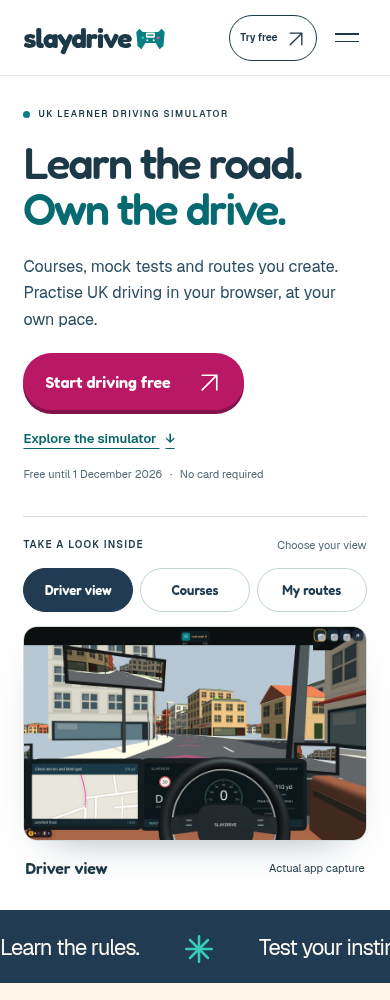
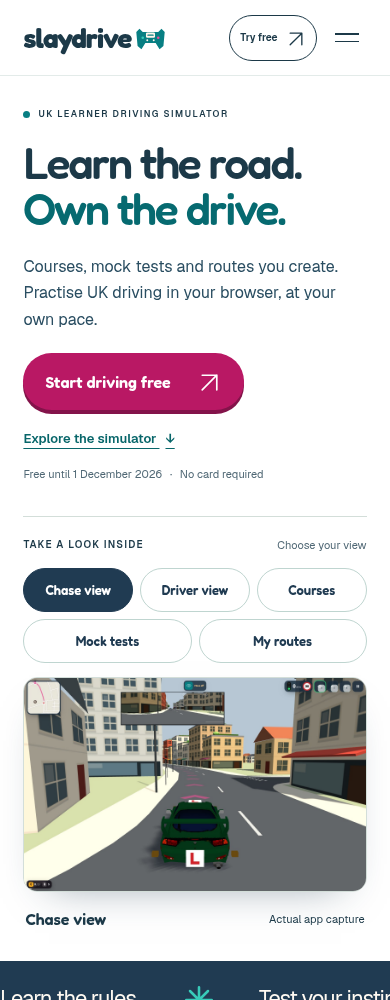
Lead with chase view and consolidate screenshot previews

Changed region(s): [[0.0, 0.589, 1.0, 1.0]]

diff --git a/index.html b/index.html
@@ -84,11 +84,13 @@
         </div>
         <div class="desktop-hero" tabindex="0" role="region" aria-roledescription="carousel" aria-label="Desktop app previews. Use the buttons or arrow keys to browse.">
           <div class="hero-preview-heading"><span class="eyebrow">TAKE A LOOK INSIDE</span><span class="hero-preview-hint">Choose your view</span></div>
-          <div class="desktop-hero-controls" role="group" aria-label="Choose a desktop screenshot"><button type="button" data-hero-pick="cockpit" aria-pressed="true">Driver view</button><button type="button" data-hero-pick="courses" aria-pressed="false">Courses</button><button type="button" data-hero-pick="my-routes" aria-pressed="false">My routes</button></div>
-          <figure data-hero-screen="cockpit"><a href="/media/current/cockpit.jpg" target="_blank" rel="noopener" aria-label="Open full-size driver view screenshot in a new tab"><img src="/media/current/cockpit.jpg" width="1600" height="1000" fetchpriority="high" decoding="async" alt="Driver’s-eye cockpit with mirrors and route navigation" /></a><figcaption>Driver view <span>Actual app capture</span></figcaption></figure>
+          <div class="desktop-hero-controls" role="group" aria-label="Choose a desktop screenshot"><button type="button" data-hero-pick="chase" aria-pressed="true">Chase view</button><button type="button" data-hero-pick="cockpit" aria-pressed="false">Driver view</button><button type="button" data-hero-pick="courses" aria-pressed="false">Courses</button><button type="button" data-hero-pick="mock-tests" aria-pressed="false">Mock tests</button><button type="button" data-hero-pick="my-routes" aria-pressed="false">My routes</button></div>
+          <figure data-hero-screen="chase"><a href="/media/current/chase.jpg" target="_blank" rel="noopener" aria-label="Open full-size chase view screenshot in a new tab"><img src="/media/current/chase.jpg" width="1600" height="1000" fetchpriority="high" decoding="async" alt="Third-person driving view showing the learner car on a Cambridge practice road" /></a><figcaption>Chase view <span>Actual app capture</span></figcaption></figure>
+          <figure data-hero-screen="cockpit" hidden><a href="/media/current/cockpit.jpg" target="_blank" rel="noopener" aria-label="Open full-size driver view screenshot in a new tab"><img src="/media/current/cockpit.jpg" width="1600" height="1000" loading="lazy" decoding="async" alt="Driver’s-eye cockpit with mirrors and route navigation" /></a><figcaption>Driver view <span>Actual app capture</span></figcaption></figure>
           <figure data-hero-screen="courses" hidden><a href="/media/current/courses.jpg" target="_blank" rel="noopener" aria-label="Open full-size courses screenshot in a new tab"><img src="/media/current/courses.jpg" width="1600" height="1000" loading="lazy" decoding="async" alt="Desktop course menu with lessons, instructions and marking choices" /></a><figcaption>Courses <span>Actual app capture</span></figcaption></figure>
+          <figure data-hero-screen="mock-tests" hidden><a href="/media/current/mock-tests.jpg" target="_blank" rel="noopener" aria-label="Open full-size mock tests screenshot in a new tab"><img src="/media/current/mock-tests.jpg" width="1600" height="1000" loading="lazy" decoding="async" alt="Mock-test route selection with route preview and marking options" /></a><figcaption>Mock tests <span>Actual app capture</span></figcaption></figure>
           <figure data-hero-screen="my-routes" hidden><a href="/media/current/my-routes.jpg" target="_blank" rel="noopener" aria-label="Open full-size my routes screenshot in a new tab"><img src="/media/current/my-routes.jpg" width="1600" height="1000" loading="lazy" decoding="async" alt="Cambridge route builder with start and finish pins and saved route controls" /></a><figcaption>My routes <span>Actual app capture</span></figcaption></figure>
-</div>
+        </div>
       </section>
       <div class="ticker" aria-hidden="true">
         <div>
@@ -120,31 +122,7 @@
         </div>
       </div>
       <section class="cambridge section-pad" id="experience" aria-labelledby="cambridge-title">
-        <div class="experience-heading"><span class="eyebrow">02 / INSIDE YOUR NEXT PRACTICE</span><h2 id="cambridge-title">Your screen.<br /><span class="serif">Your next drive.</span></h2><p>A UK learner driving simulator you can explore at your own pace. These desktop captures show the current app, from choosing a lesson to sitting behind the wheel.</p></div>
-        <div class="screen-gallery">
-          <div class="screen-tabs" role="tablist" aria-label="Desktop simulator screenshots"><button type="button" id="tab-cockpit" role="tab" aria-controls="screen-cockpit" aria-selected="true" tabindex="0">Driver view</button><button type="button" id="tab-courses" role="tab" aria-controls="screen-courses" aria-selected="false" tabindex="-1">Courses</button><button type="button" id="tab-mock-tests" role="tab" aria-controls="screen-mock-tests" aria-selected="false" tabindex="-1">Mock tests</button><button type="button" id="tab-my-routes" role="tab" aria-controls="screen-my-routes" aria-selected="false" tabindex="-1">My routes</button></div>
-          <figure class="desktop-showcase" id="screen-cockpit" role="tabpanel" aria-labelledby="tab-cockpit" tabindex="0">
-            <div class="desktop-showcase-bar"><span aria-hidden="true">● ● ●</span><span>DRIVER VIEW / DESKTOP CAPTURE</span></div>
-            <a href="/media/current/cockpit.jpg" target="_blank" rel="noopener" aria-label="Open full-size driver view screenshot in a new tab"><img src="/media/current/cockpit.jpg" width="1600" height="1000" loading="lazy" decoding="async" alt="Driver’s-eye cockpit with mirrors, navigation and the driving HUD" /></a>
-            <figcaption>Drive from the cockpit. Switch to chase or overhead view when you want another perspective. <a href="/media/current/cockpit.jpg" target="_blank" rel="noopener">View full-size<span class="sr-only"> (opens in a new tab)</span></a></figcaption>
-          </figure>
-          <figure class="desktop-showcase" id="screen-courses" role="tabpanel" aria-labelledby="tab-courses" tabindex="0" hidden>
-            <div class="desktop-showcase-bar"><span aria-hidden="true">● ● ●</span><span>COURSES / DESKTOP CAPTURE</span></div>
-            <a href="/media/current/courses.jpg" target="_blank" rel="noopener" aria-label="Open full-size courses screenshot in a new tab"><img src="/media/current/courses.jpg" width="1600" height="1000" loading="lazy" decoding="async" alt="Course menu showing driving lessons, instructions and marking choices" /></a>
-            <figcaption>Choose a skill, read the instructions and practise. Road challenges now live alongside the other course lessons. <a href="/media/current/courses.jpg" target="_blank" rel="noopener">View full-size<span class="sr-only"> (opens in a new tab)</span></a></figcaption>
-          </figure>
-          <figure class="desktop-showcase" id="screen-mock-tests" role="tabpanel" aria-labelledby="tab-mock-tests" tabindex="0" hidden>
-            <div class="desktop-showcase-bar"><span aria-hidden="true">● ● ●</span><span>MOCK TESTS / DESKTOP CAPTURE</span></div>
-            <a href="/media/current/mock-tests.jpg" target="_blank" rel="noopener" aria-label="Open full-size mock tests screenshot in a new tab"><img src="/media/current/mock-tests.jpg" width="1600" height="1000" loading="lazy" decoding="async" alt="Mock-test route selection with a route preview and marking options" /></a>
-            <figcaption>Pick a practice route and marking level. Review faults and your result, then have another go. <a href="/media/current/mock-tests.jpg" target="_blank" rel="noopener">View full-size<span class="sr-only"> (opens in a new tab)</span></a></figcaption>
-          </figure>
-          <figure class="desktop-showcase" id="screen-my-routes" role="tabpanel" aria-labelledby="tab-my-routes" tabindex="0" hidden>
-            <div class="desktop-showcase-bar"><span aria-hidden="true">● ● ●</span><span>MY ROUTES / DESKTOP CAPTURE</span></div>
-            <a href="/media/current/my-routes.jpg" target="_blank" rel="noopener" aria-label="Open full-size my routes screenshot in a new tab"><img src="/media/current/my-routes.jpg" width="1600" height="1000" loading="lazy" decoding="async" alt="My routes showing a Cambridge practice route with start and finish pins, map and save controls" /></a>
-            <figcaption>Search for a place, choose your start and finish, then save a route in this browser to drive. <a href="/media/current/my-routes.jpg" target="_blank" rel="noopener">View full-size<span class="sr-only"> (opens in a new tab)</span></a></figcaption>
-          </figure>
-          <p class="capture-note">Actual simulator captures with a demonstration account. Map data © <a href="https://www.openstreetmap.org/copyright">OpenStreetMap contributors</a>.</p>
-        </div>
+        <div class="experience-heading"><span class="eyebrow">02 / INSIDE YOUR NEXT PRACTICE</span><h2 id="cambridge-title">Your screen.<br /><span class="serif">Your next drive.</span></h2><p>Choose a focused lesson, put your skills together in a mock test, or explore a route of your own.</p></div>
         <div class="experience-details">
           <article><span>01 / LEARN A SKILL</span><h3>Courses with a purpose.</h3><p>Moving off, junctions, lane choices, parking and motorway situations. Focused road challenges are part of the course, with instructions and optional voice guidance.</p></article>
           <article><span>02 / PUT IT TOGETHER</span><h3>Mock driving tests.</h3><p>Follow a practice route, work on observation and review your faults and result. Repeat a test without using up a fixed allowance.</p></article>
@@ -428,6 +406,7 @@
         "First-use tour"
       ],
       "screenshot": [
+        "https://slaydrive.com/media/current/chase.jpg",
         "https://slaydrive.com/media/current/cockpit.jpg",
         "https://slaydrive.com/media/current/courses.jpg",
         "https://slaydrive.com/media/current/mock-tests.jpg",

diff --git a/src/editorial.css b/src/editorial.css
@@ -179,16 +179,6 @@
 .experience-details article > span { color:#087f83; font-size:12px; }
 .experience-details h3 { font-size:25px; margin:15px 0 10px; }
 .experience-details p { color:#506875; font-size:14px; line-height:1.8; }
-.screen-gallery{width:100%;max-width:1160px;align-self:center}
-.screen-tabs{display:flex;flex-wrap:wrap;gap:10px;margin-bottom:20px}
-.screen-tabs button{border:2px solid #087f83;border-radius:999px;background:#fff;color:#08666a;padding:12px 22px;min-height:46px;font:600 15px "Fredoka Variable",sans-serif;cursor:pointer}
-.screen-tabs button[aria-selected=true],.screen-tabs button:hover{background:#087f83;color:white}
-.screen-tabs button:focus-visible{outline:3px solid #bb1964;outline-offset:4px}
-.screen-gallery [hidden]{display:none!important}
-.screen-gallery figcaption{line-height:1.7;font-size:14px}
-.screen-gallery figcaption a{display:inline-block;margin-left:8px;color:#08666a;text-decoration:underline;text-underline-offset:3px}
-.capture-note{font-size:12px;line-height:1.7;color:#506875;margin-top:16px}
-.capture-note a{color:#08666a;text-decoration:underline}
 /* A broad gameplay stage with a compact introduction, rather than a framed card. */
 .marketing-home .hero{display:block;padding-top:58px;padding-bottom:56px}
 .marketing-home .hero-copy{display:grid;grid-template-columns:1.15fr 1fr;gap:48px;align-items:end;padding:0;margin:0 0 38px}
@@ -207,13 +197,12 @@
 .desktop-hero img{display:block;width:100%;height:auto;border:1px solid #d3ded9;border-radius:22px;box-shadow:0 18px 40px -26px #203b5280}
 .desktop-hero figcaption{display:flex;justify-content:space-between;gap:12px;padding:17px 2px 0;font:600 17px "Fredoka Variable",sans-serif;color:#1c3948}
 .desktop-hero figcaption span{font:400 11px "Geist Variable",sans-serif;align-self:center}
-.desktop-hero-controls{display:flex;gap:10px;margin-bottom:20px}.desktop-hero-controls button{min-height:44px;padding:11px 24px;border:1px solid #bfd5d0;border-radius:999px;font:600 15px "Fredoka Variable",sans-serif;background:#fff;color:#203b52;cursor:pointer}
+.desktop-hero-controls{display:flex;flex-wrap:wrap;gap:10px;margin-bottom:20px}.desktop-hero-controls button{min-height:44px;padding:11px 24px;border:1px solid #bfd5d0;border-radius:999px;font:600 15px "Fredoka Variable",sans-serif;background:#fff;color:#203b52;cursor:pointer}
 .desktop-hero-controls button[aria-pressed=true]{background:#203b52;border-color:#203b52;color:white}.desktop-hero-controls button:hover:not([aria-pressed=true]){background:#e1f2ed;border-color:#087f83;color:#08666a}
 .desktop-hero:focus-visible,.desktop-hero-controls button:focus-visible,.hero-play:focus-visible,.hero-explore:focus-visible{outline:3px solid #bb1964;outline-offset:4px}
 .desktop-hero-note{font-size:11px;line-height:1.7;margin:8px 2px 0;color:#506875}.desktop-hero-note a{color:#08666a;text-decoration:underline}
 @media(max-width:900px){.marketing-home .hero-copy{grid-template-columns:1fr;gap:22px}.hero-intro{justify-self:start}.marketing-home .hero .hero-description{max-width:580px}.marketing-home .hero h1{font-size:clamp(51px,10vw,80px)}}
-@media(max-width:600px){.marketing-home .hero{padding-top:32px;padding-bottom:32px}.marketing-home .hero-copy{margin-bottom:28px}.marketing-home .hero h1{font-size:clamp(44px,11.4vw,66px);margin-top:18px}.marketing-home .hero .hero-description{font-size:16px;line-height:1.65;margin-bottom:20px}.hero-actions{gap:20px}.marketing-home .hero .hero-play{font-size:16px;min-height:52px;padding:15px 22px}.hero-explore{font-size:13px}.hero-offer{font-size:11px}.desktop-hero-controls{gap:7px;margin-bottom:14px}.desktop-hero-controls button{flex:1;padding:10px 5px;font-size:13px}.desktop-hero img{border-radius:14px}.desktop-hero figcaption{font-size:16px}.hero-preview-heading{padding-top:20px}.hero-preview-hint{font-size:11px}}
-@media(max-width:600px){.screen-tabs{gap:8px}.screen-tabs button{flex:1 1 calc(50% - 8px);padding:10px;font-size:14px}.screen-gallery figcaption{font-size:13px}.experience-details{gap:28px}}
+@media(max-width:600px){.marketing-home .hero{padding-top:32px;padding-bottom:32px}.marketing-home .hero-copy{margin-bottom:28px}.marketing-home .hero h1{font-size:clamp(44px,11.4vw,66px);margin-top:18px}.marketing-home .hero .hero-description{font-size:16px;line-height:1.65;margin-bottom:20px}.hero-actions{gap:20px}.marketing-home .hero .hero-play{font-size:16px;min-height:52px;padding:15px 22px}.hero-explore{font-size:13px}.hero-offer{font-size:11px}.desktop-hero-controls{gap:7px;margin-bottom:14px}.desktop-hero-controls button{flex:1 1 calc(33% - 7px);padding:10px 5px;font-size:13px}.desktop-hero img{border-radius:14px}.desktop-hero figcaption{font-size:16px}.hero-preview-heading{padding-top:20px}.hero-preview-hint{font-size:11px}}
 .marketing-home .cambridge > .button { align-self:flex-start; }
 .marketing-home .next { width:100%; max-width:none; margin:0; border-radius:0; background:#e1f2ed; }
 @media(max-width:800px) {

diff --git a/tests/site.spec.js b/tests/site.spec.js
@@ -150,13 +150,13 @@ test('desktop hero supports buttons and keyboard browsing without autoplay', asy
   await page.goto('/');
   const hero=page.getByRole('region',{name:/Desktop app previews/});
   await expect(hero.locator('video')).toHaveCount(0);
-  await expect(hero.locator('[data-hero-screen="cockpit"]')).toBeVisible();
+  await expect(hero.locator('[data-hero-screen="chase"]')).toBeVisible();
   await hero.focus();await page.keyboard.press('ArrowRight');
-  await expect(hero.locator('[data-hero-screen="courses"]')).toBeVisible();
+  await expect(hero.locator('[data-hero-screen="cockpit"]')).toBeVisible();
   await hero.getByRole('button',{name:'My routes',exact:true}).click();
   await expect(hero.locator('[data-hero-screen="my-routes"]')).toBeVisible();
   await expect.poll(()=>hero.locator('[data-hero-screen="my-routes"] img').evaluate(img=>img.complete&&img.naturalWidth===1600)).toBe(true);
-  await page.keyboard.press('Home');await expect(hero.locator('[data-hero-screen="cockpit"]')).toBeVisible();
+  await page.keyboard.press('Home');await expect(hero.locator('[data-hero-screen="chase"]')).toBeVisible();
   const sections=await page.locator('main > section').evaluateAll(els=>els.slice(0,3).map(el=>el.id||'hero'));
   expect(sections).toEqual(['hero','experience','perspective']);
   for(const width of [1440,390]){await page.setViewportSize({width,height:1000});await page.evaluate(()=>{scrollTo(0,0);document.activeElement?.blur();});await page.mouse.move(0,0);await page.screenshot({path:`test-results/hero-${width}.png`});}
@@ -201,21 +201,19 @@ test('free offer is explicit, has no beta wording and links to the current app',
  }
 });
 
-test('desktop gallery loads real captures, supports keyboard tabs and fits mobile',async({page})=>{
- await page.goto('/');await page.locator('#experience').scrollIntoViewIfNeeded();
- for(const [name,id] of [['Driver view','cockpit'],['Courses','courses'],['Mock tests','mock-tests'],['My routes','my-routes']]){
-  await page.getByRole('tab',{name,exact:true}).click();
-  const panel=page.locator('#screen-'+id);await expect(panel).toBeVisible();
+test('one preview gallery loads all five real captures and fits mobile',async({page})=>{
+ await page.goto('/');
+ const hero=page.getByRole('region',{name:/Desktop app previews/});
+ await expect(page.locator('.screen-gallery')).toHaveCount(0);
+ for(const [name,id] of [['Chase view','chase'],['Driver view','cockpit'],['Courses','courses'],['Mock tests','mock-tests'],['My routes','my-routes']]){
+  await hero.getByRole('button',{name,exact:true}).click();
+  const panel=hero.locator(`[data-hero-screen="${id}"]`);await expect(panel).toBeVisible();
   await expect.poll(()=>panel.locator('img').evaluate(img=>img.complete&&img.naturalWidth===1600)).toBe(true);
-  await expect(page.getByRole('tabpanel')).toHaveCount(1);
+  await expect(hero.locator('figure:visible')).toHaveCount(1);
  }
- await page.keyboard.press('Home');await expect(page.getByRole('tab',{name:'Driver view',exact:true})).toBeFocused();
- await page.keyboard.press('ArrowRight');await expect(page.getByRole('tab',{name:'Courses',exact:true})).toHaveAttribute('aria-selected','true');
- await page.keyboard.press('Home');
  for(const width of [1440,390]){
-  await page.setViewportSize({width,height:1000});await page.locator('.screen-gallery').scrollIntoViewIfNeeded();
+  await page.setViewportSize({width,height:1000});
   expect(await page.evaluate(()=>document.documentElement.scrollWidth<=innerWidth)).toBe(true);
-  await page.screenshot({path:`test-results/showcase-${width}.png`});
  }
 });
 
@@ -224,7 +222,7 @@ test('learner simulator search metadata matches visible features without invente
  await expect(page.locator('meta[name="description"]')).toHaveAttribute('content',/courses, mock driving tests, free drive and routes you create/);
  await expect(page.locator('body')).not.toContainText(/UK.s (?:No\.?\s?1|number one)|guaranteed pass|Open the app and subscribe/i);
  const graph=JSON.parse(await page.locator('script[type="application/ld+json"]').textContent())['@graph'];
- const software=graph.find(n=>n['@type']==='SoftwareApplication');expect(software.screenshot).toHaveLength(4);expect(software.aggregateRating).toBeUndefined();
+ const software=graph.find(n=>n['@type']==='SoftwareApplication');expect(software.screenshot).toHaveLength(5);expect(software.aggregateRating).toBeUndefined();
  await page.goto('/driving-simulator/');await expect(page.getByRole('heading',{name:'How to choose the best learner driving simulator for you',exact:true})).toBeVisible();
  await expect(page.locator('article')).toContainText('Clearing browser storage');
 });

diff --git a/src/main.js b/src/main.js
@@ -4,22 +4,6 @@ import "./editorial.css";
 document.documentElement.classList.add("js");
 document.querySelector("#year").textContent = new Date().getFullYear();
 
-// Static, crawlable product screenshots; switch only when the visitor asks.
-const screenTabs=[...document.querySelectorAll('.screen-tabs [role="tab"]')];
-function selectScreen(tab){
- for(const item of screenTabs){const selected=item===tab;item.setAttribute('aria-selected',String(selected));item.tabIndex=selected?0:-1;document.getElementById(item.getAttribute('aria-controls')).hidden=!selected;}
-}
-for(const tab of screenTabs){
- tab.addEventListener('click',()=>selectScreen(tab));
- tab.addEventListener('keydown',event=>{
-  const index=screenTabs.indexOf(tab);let next;
-  if(event.key==='ArrowRight')next=(index+1)%screenTabs.length;
-  if(event.key==='ArrowLeft')next=(index+screenTabs.length-1)%screenTabs.length;
-  if(event.key==='Home')next=0;if(event.key==='End')next=screenTabs.length-1;
-  if(next!==undefined){event.preventDefault();selectScreen(screenTabs[next]);screenTabs[next].focus();}
- });
-}
-
 const menuButton = document.querySelector(".menu-toggle");
 const mobileNav = document.querySelector("#mobile-nav");
 function closeMenu() {

diff --git a/docs/CONTENT-SHOWCASE-UPDATE.md b/docs/CONTENT-SHOWCASE-UPDATE.md
@@ -2,7 +2,7 @@
 
 The marketing site now describes the current Course, Mock test, Free drive and My routes flow. Road challenges are presented as lessons within Course. New copy explains driver/chase/overhead views, compatible gamepad and touch controls, optional voice guidance, the first-use tour, account progress and feedback. Custom route storage is explicitly local to the browser; generated road detail and official-route limitations are explained beside the feature.
 
-The existing fonts, palette and car gallery remain. Desktop screenshots now lead the hero, followed by the experience showcase and then the garage as the third main section. Driver view, Courses and My routes can be selected in the hero without autoplay. The detailed gallery contains Driver view, Courses, Mock tests and My routes; the Quick tour screenshot was replaced. Full-size links, alt text and OpenStreetMap attribution are retained. Images have explicit dimensions, with lazy loading except for the initial hero image. No image-generation service or retouching was used.
+The existing fonts, palette and car gallery remain. One desktop preview gallery leads the hero, with Chase view selected first, followed by Driver view, Courses, Mock tests and My routes. There is no duplicate screenshot gallery below it. The experience section explains the features, and the garage remains the third main section. Full-size links, alt text and keyboard controls are retained, without autoplay. Images have explicit dimensions, with lazy loading except for the initial chase image. No image-generation service or retouching was used.
 
 ## Screenshot source
 
@@ -19,7 +19,7 @@ The existing fonts, palette and car gallery remain. Desktop screenshots now lead
 
 ## Verification
 
-The production build and 12 Playwright tests cover navigation, internal links, unique metadata, structured data, responsive layouts from 320–1440 px, gallery image loading and keyboard operation, the free offer, existing car/garage interactions, hero keyboard controls, section order, and Terms of Use links/content, production CSP and automated WCAG AA checks. Desktop and mobile gallery captures are in `docs/evidence/current-showcase/`.
+The production build and 12 Playwright tests cover navigation, internal links, unique metadata, structured data, responsive layouts from 320–1440 px, gallery image loading and keyboard operation, the free offer, existing car/garage interactions, hero keyboard controls, section order, and Terms of Use links/content, production CSP and automated WCAG AA checks. Desktop and mobile hero captures are in `docs/evidence/current-showcase/`.
 
 These are local/browser checks; search indexing and ranking are not verified or promised. The production deployment safeguard remains in place and confirms the live app grants the advertised free access before publishing.
 
@@ -51,4 +51,4 @@ Sources: [Google UK suggestions for driving simulator UK](https://suggestqueries
 
 ## Hero refinement
 
-The hero uses a compact two-column introduction above a broad desktop screenshot, with the heading “Learn the road. Own the drive.” A pink **Start driving free** action opens the app directly; the secondary link leads to the feature showcase. The former mint frame, mock browser bar and repeated introductory copy are removed. Mobile uses the same content in a single column. Screenshot buttons remain keyboard accessible and do not autoplay. The separate map-attribution line is removed from the hero and retained in the footer and detailed gallery. Attribution embedded in actual map screenshots is preserved.
+The hero uses a compact two-column introduction above a broad desktop screenshot, with the heading “Learn the road. Own the drive.” A pink **Start driving free** action opens the app directly; the secondary link leads to the feature showcase. The former mint frame, mock browser bar and repeated introductory copy are removed. Mobile uses the same content in a single column. Screenshot buttons remain keyboard accessible and do not autoplay. The separate map-attribution line is removed from the hero and retained in the footer. Attribution embedded in actual map screenshots is preserved.
